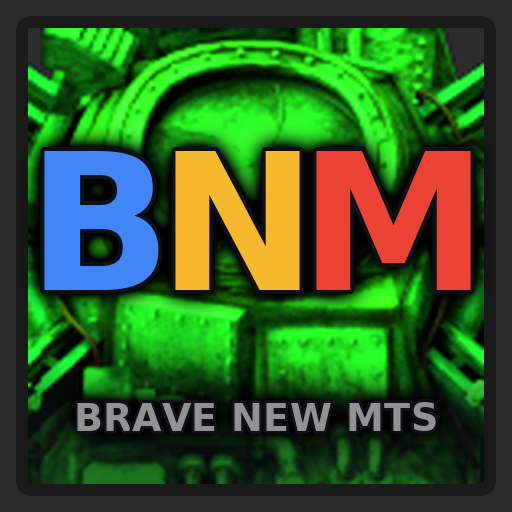
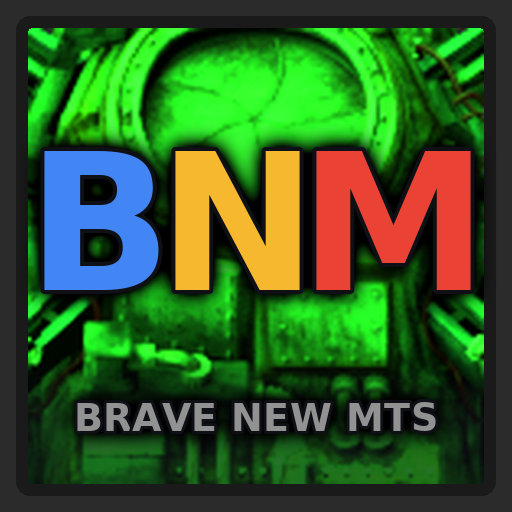
Move the thumbnail's roboport up about 10%

diff --git a/tools/gen_thumbnail.py b/tools/gen_thumbnail.py
@@ -74,7 +74,7 @@ ROBOPORT_LAYERS = (
 BNM_TINT = (0.15, 1.0, 0.15)      # prototypes/bnm_roboport.lua
 # The close-up: a square of the sprite, in sprite pixels around the entity's
 # centre, scaled up to fill the frame. Smaller = closer.
-ZOOM_CENTRE = (0, -30)
+ZOOM_CENTRE = (0, -16)
 ZOOM_SIZE = 139
 # The glow at full strength, only a touch soft so the mark stays the
 # sharpest thing on the card.
